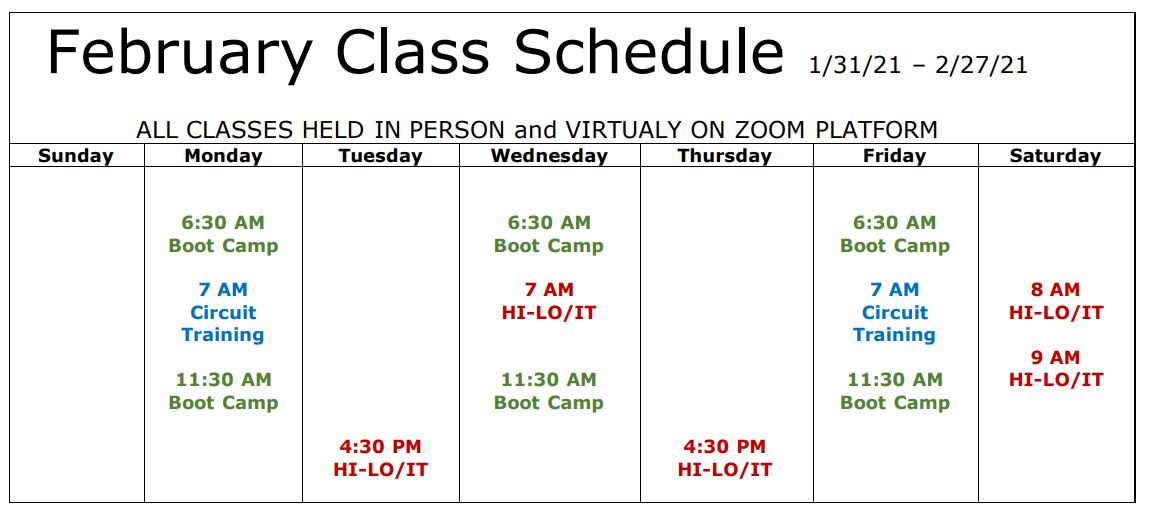
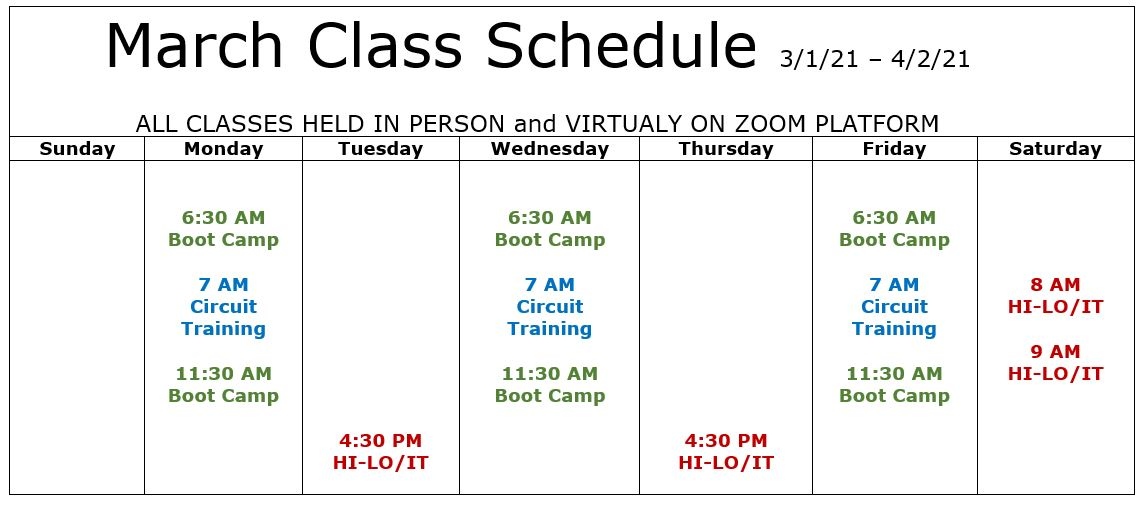
updates for March

diff --git a/_events/girls-night-out.md b/_events/girls-night-out.md
@@ -1,12 +1,12 @@
 ---
-title: "Ladies Night"
-time: "February 3, 2021 at 5:00pm"
+title: "Ladies Night March It Out"
+time: "March 10, 2021 at 5:00pm"
 location: FIT Rx
 ---
 ![Ladies Night flyer](/assets/images/events/ladiesnight.jpg)
 
 Cost: $15
 
-Dance, laugh and sweat with friends! Come workout and enjoy a LOT of social time (little distance) with your lady friends!  Light snacks provided.
+Dance, laugh and sweat with friends! Come workout and enjoy a LOT of social time (little distance) with your lady friends!  Light snacks provided. Zoom (online) option as well.
 
 [Sign up for the event](https://app.acuityscheduling.com/schedule.php?owner=16546307&appointmentType=18424784){: target="_blank"}{: class="btn btn-primary-outline"}

diff --git a/_events/free-community-walk.md b/_events/free-community-walk.md
@@ -1,10 +1,10 @@
 ---
 title: "Free Community Walk"
-time: "TBD"
+time: "Sunday, March 21, 2021"
 location: FIT Rx
 ---
 ![Riverfront path behind FIT Rx](/assets/images/classes-scenery.jpg)
 
-Next Walk - Time and Date TBD
+Next Walk - 10:00a - 12:00p on Sunday, March 21, 2021
 
-Sunday stroll along the Mississippi River with FIT Rx
+FIT Rx will open its doors to the community, offering water outside for your walk between 10:00a - 12:00p!  To keep our distance we will only gather outside and we ask that you respect others' space.  Runners welcome!   Dolly the Gym Dog will be there!  Bring your dogs and families!  Doggie bags are provided to keep our neighborhood clean!
